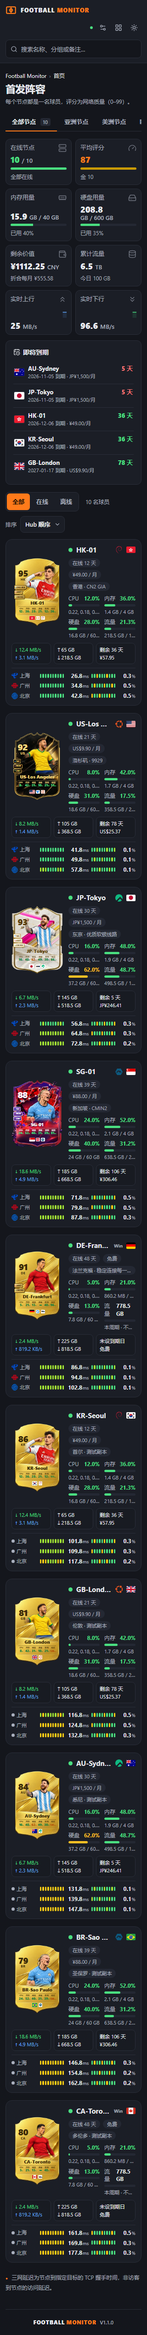
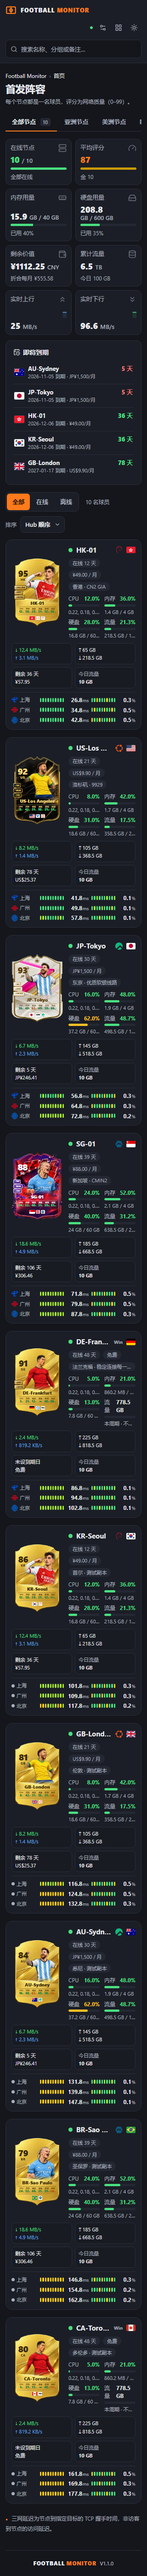
Animate the split panel's probe bars and add today's traffic
The probe rows in the split view now sweep three empty rows while the
probes load and light up from the left when they first arrive, sharing
the card strip's animation; before, the panel drew plain colours and said
"暂无探测任务" while loading. Today's traffic, missing from the panel, is a
fourth box at the right end of the row (the split on hover, kept for
offline nodes, hidden with the traffic switch); on phones the boxes go two
to a row.

Changed region(s): [[0.0312, 0.0, 0.9375, 0.9986]]

diff --git a/src/components/NodePanel.vue b/src/components/NodePanel.vue
@@ -1,5 +1,5 @@
 <script setup lang="ts">
-import { computed } from 'vue'
+import { computed, ref, watch } from 'vue'
 import { latencyColor, lossColor, probeBars, shownProbes, taskLoss } from '../domain/carriers'
 import { flagUrl } from '../domain/flags'
 import { remainingValue } from '../domain/fleet'
@@ -96,18 +96,44 @@ const expiry = computed(() => {
     value: left ? money(Number(left.amount.toFixed(2)), left.currency) : '—',
   }
 })
-// Each shown probe gets its own latency and loss segments, as on the detail page's carrier rows.
+// As on the card strip, the bars sweep while the probes load, then fill in from the left the first time they
+// arrive; probes already loaded when the panel mounts, refreshes and failed requests show as they are.
+const arrived = ref(false)
+watch(
+  () => props.history,
+  (now, before) => {
+    if (now && !before) arrived.value = true
+  },
+)
+const loading = computed(() => !props.history && !props.unavailable)
+const barState = computed(() => (loading.value ? 'loading' : arrived.value ? 'fill' : undefined))
+const EMPTY = Array.from({ length: 10 }, () => latencyColor(null))
+// Each shown probe gets its own latency and loss segments, as on the detail page's carrier rows; three empty
+// rows hold the place while the probes load.
 const probes = computed(() =>
-  shownProbes(props.history, props.nodeConfig, props.node.online, props.unavailable).map((p) => {
-    const b = probeBars(props.history, [p.taskId]),
-      loss = props.unavailable ? null : taskLoss(props.history, p.taskId)
-    return {
-      ...p,
-      loss,
-      latencyColors: b.latency.map(latencyColor),
-      lossColors: b.loss.map(lossColor),
-    }
-  }),
+  loading.value
+    ? [1, 2, 3].map((n) => ({
+        taskId: -n,
+        region: '—',
+        carrier: undefined,
+        color: undefined,
+        logo: undefined,
+        latency: null,
+        loss: null,
+        title: '正在加载探测数据',
+        latencyColors: EMPTY,
+        lossColors: EMPTY,
+      }))
+    : shownProbes(props.history, props.nodeConfig, props.node.online, props.unavailable).map((p) => {
+        const b = probeBars(props.history, [p.taskId]),
+          loss = props.unavailable ? null : taskLoss(props.history, p.taskId)
+        return {
+          ...p,
+          loss,
+          latencyColors: b.latency.map(latencyColor),
+          lossColors: b.loss.map(lossColor),
+        }
+      }),
 )
 </script>
 <template>
@@ -154,8 +180,17 @@ const probes = computed(() =>
         <span>{{ expiry.days }}</span>
         <span>{{ expiry.value }}</span>
       </div>
+      <!-- Hub-booked counters, so offline nodes keep today's figure, as on the card strip. -->
+      <div
+        v-if="showTraffic"
+        class="np-box np-today"
+        :title="`今日下行 ${bytes(node.day_rx)} · 今日上行 ${bytes(node.day_tx)}`"
+      >
+        <span class="np-box-label">今日流量</span>
+        <b>{{ bytes(node.day_rx + node.day_tx) }}</b>
+      </div>
     </div>
-    <div v-if="showCarriers" class="np-probes">
+    <div v-if="showCarriers" class="np-probes" :data-state="barState">
       <span v-if="!probes.length" class="np-empty">暂无探测任务</span>
       <div
         v-for="p in probes"
@@ -171,14 +206,14 @@ const probes = computed(() =>
           }}</span></span
         >
         <span class="np-segs" aria-hidden="true"
-          ><i v-for="(color, i) in p.latencyColors" :key="i" :style="{ background: color }"
+          ><i v-for="(color, i) in p.latencyColors" :key="i" :style="{ background: color, '--i': i }"
         /></span>
         <b class="np-probe-value"
           >{{ p.latency === null ? '—' : Number(p.latency.toFixed(1))
           }}<small v-if="p.latency !== null">ms</small></b
         >
         <span class="np-segs" aria-hidden="true"
-          ><i v-for="(color, i) in p.lossColors" :key="i" :style="{ background: color }"
+          ><i v-for="(color, i) in p.lossColors" :key="i" :style="{ background: color, '--i': i }"
         /></span>
         <b class="np-probe-value"
           >{{ p.loss === null ? '—' : p.loss.toFixed(1) }}<small v-if="p.loss !== null">%</small></b

diff --git a/tests/node-panel.test.ts b/tests/node-panel.test.ts
@@ -1,4 +1,5 @@
 import { describe, expect, it } from 'vitest'
+import { nextTick } from 'vue'
 import { mount } from '@vue/test-utils'
 import NodePanel from '../src/components/NodePanel.vue'
 import { carriers } from '../src/domain/carriers'
@@ -117,7 +118,18 @@ describe('node panel', () => {
       '↓1.5MB/s↑1.3MB/s',
       '⇡2TB⇣3TB',
       '剩余15天¥14.78',
+      '今日流量0B',
     ])
+  })
+  it("shows today's traffic in the last box with the split on hover, offline nodes included", () => {
+    const today = { ...online, day_rx: 8 * GB, day_tx: 2 * GB }
+    for (const node of [today, { ...today, online: false, metrics: null }]) {
+      const box = panel({ node }).findAll('.np-box').at(-1)!
+      expect(box.classes()).toContain('np-today')
+      expect(box.find('.np-box-label').text()).toBe('今日流量')
+      expect(box.find('b').text()).toBe('10 GB')
+      expect(box.attributes('title')).toBe('今日下行 8 GB · 今日上行 2 GB')
+    }
   })
   it('leaves traffic and billing boxes out when they are hidden', () => {
     const wrapper = panel({ showTraffic: false, showBilling: false })
@@ -137,7 +149,11 @@ describe('node panel', () => {
     ])
     for (const row of rows) expect(row.findAll('.np-segs i')).toHaveLength(20)
     expect(panel({ showCarriers: false }).find('.np-probes').exists()).toBe(false)
-    expect(panel({ history: undefined }).find('.np-empty').text()).toBe('暂无探测任务')
+    expect(
+      panel({ history: { ...history, probes: {} } })
+        .find('.np-empty')
+        .text(),
+    ).toBe('暂无探测任务')
   })
   it('shows dashes for live readings of an offline node and how long it has been away', () => {
     const wrapper = panel({ node: offline })
@@ -150,5 +166,27 @@ describe('node panel', () => {
   it('shows dashes for loss when the probes could not be loaded', () => {
     const rows = panel({ unavailable: true }).findAll('.np-probe')
     expect(rows.map((r) => r.findAll('.np-probe-value')[1]!.text())).toEqual(['—', '—', '—'])
+  })
+  it('sweeps three empty rows while the probes load, then fills them in once, on first arrival', async () => {
+    const wrapper = panel({ history: undefined })
+    const probes = () => wrapper.find('.np-probes')
+    expect(probes().attributes('data-state')).toBe('loading')
+    expect(wrapper.find('.np-empty').exists()).toBe(false)
+    const rows = wrapper.findAll('.np-probe')
+    expect(rows).toHaveLength(3)
+    expect(rows[0]!.attributes('title')).toBe('正在加载探测数据')
+    expect(rows[0]!.findAll('.np-segs i')[4]!.attributes('style')).toContain('--i: 4')
+    await wrapper.setProps({ history })
+    expect(probes().attributes('data-state')).toBe('fill')
+    expect(wrapper.findAll('.np-probe-name').map((n) => n.text())).toEqual(['电信', '联通', '移动'])
+    await wrapper.setProps({ history: { ...history } })
+    await nextTick()
+    expect(probes().attributes('data-state')).toBe('fill')
+  })
+  it('neither sweeps nor fills when the probes were already loaded or failed to load', () => {
+    expect(panel().find('.np-probes').attributes('data-state')).toBeUndefined()
+    const failed = panel({ history: undefined, unavailable: true })
+    expect(failed.find('.np-probes').attributes('data-state')).toBeUndefined()
+    expect(failed.find('.np-empty').text()).toBe('暂无探测任务')
   })
 })

diff --git a/src/styles/cards.css b/src/styles/cards.css
@@ -590,13 +590,16 @@
   initial-value: 1;
 }
 /* While the probes load, the empty segments light up from the left, one per tenth, and start over. */
-.strip-bar[data-state='loading'] {
+.strip-bar[data-state='loading'],
+.np-probes[data-state='loading'] {
   animation: strip-load 1.2s linear infinite;
 }
-.strip-bar[data-state='loading'] .strip-seg {
+.strip-bar[data-state='loading'] .strip-seg,
+.np-probes[data-state='loading'] .np-segs i {
   position: relative;
 }
-.strip-bar[data-state='loading'] .strip-seg::after {
+.strip-bar[data-state='loading'] .strip-seg::after,
+.np-probes[data-state='loading'] .np-segs i::after {
   content: '';
   position: absolute;
   inset: 0;
@@ -613,11 +616,13 @@
     --strip-load: 1;
   }
 }
-/* The first time the probes arrive, the coloured segments light up from the left. */
-.strip-bar[data-state='fill'] {
+/* The first time the probes arrive, the coloured segments light up from the left; the split panel shares both. */
+.strip-bar[data-state='fill'],
+.np-probes[data-state='fill'] {
   animation: strip-fill 0.7s ease-out both;
 }
-.strip-bar[data-state='fill'] .strip-seg {
+.strip-bar[data-state='fill'] .strip-seg,
+.np-probes[data-state='fill'] .np-segs i {
   opacity: clamp(0, calc((var(--strip-fill, 1) * 13 - var(--i)) / 3), 1);
 }
 @keyframes strip-fill {
@@ -818,6 +823,13 @@
 .np-box b {
   margin-right: 3px;
 }
+.np-box-label {
+  color: var(--muted);
+}
+.np-today b {
+  margin: 0;
+  font-weight: 700;
+}
 .np-down {
   color: var(--strip-down);
 }
@@ -910,6 +922,10 @@
   .np-boxes,
   .np-probes {
     grid-column: 1 / -1;
+  }
+  .np-boxes {
+    grid-template-columns: repeat(2, minmax(0, 1fr));
+    grid-auto-flow: row;
   }
   .np-probe {
     grid-template-columns: 56px minmax(0, 1fr) 48px minmax(0, 1fr) 38px;

diff --git a/docs/manual.md b/docs/manual.md
@@ -9,7 +9,7 @@
 - FC 版式球星卡：左上综合分与国家/地区，左侧卡框边缘为“线路技能”徽章（显示三网线路设置里填写的线路名，如 CN2 GIA、9929、CMIN2，小圆点区分电信/联通/移动），中部立绘，下方节点名与 CPU / 内存 / 硬盘 / 流量 / 在线 / 延迟六项真实数值（占用百分比、运行天数、24 小时平均延迟 ms，按数值绿/黄/红着色），左上综合分为网络质量分（见下文），最底部一排徽章依次为国旗（按节点国家代码）、VPS 服务商 LOGO（节点设置中选择，内置阿里云、腾讯云、Vultr、DigitalOcean、搬瓦工、CloudCone、BageVM、VMISS、Akile 等，或自定义名称与 HTTPS LOGO，可用上传服务上传）和操作系统 LOGO（按节点上报的系统名称自动识别）；卡下实时条显示上下行速率、探针后台前三个测速点（按后台顺序，地区名取自测速任务名；任务名含“电信 / 联通 / 移动”时按运营商着色并简写）的延迟，以及最近一段时间的“延迟”“丢包”色块条。
 - 十七套卡面：档位卡 金卡 / 银卡 / 铜卡，特殊卡 周黑 / 开拓者 / 传奇 / 星河 / 碎焰 / 年度最佳 / 霓虹 / 幻彩 / 青金 / 霓虹城 / 翡翠 / 星环 / 棱镜 / 故障；另有「自动（按评分）」，按综合分在铜 / 银 / 金之间切换（档位线 65 / 75，2 分滞后防闪烁）。主题站演示页（monitor-themes.pages.dev）没有设置可读，未配置卡面的节点按编号轮换全部卡面以便预览；真实站点不受影响。
 - 首页灰蓝底、橙色强调的平面风格：桌面 1440px 标准布局每行 7 张、紧凑 8 张、大卡 6 张，手机每行 2 张；状态筛选、综合分/名称排序和顶栏搜索（`/` 聚焦）。
-- 首页两种形式：上下（默认，卡面 + 卡下实时条）与左右（纯卡面 + 右侧数据面板）。左右形式的面板依次为状态、名称、系统与国旗，在线天数 / 价格 / 备注标签，CPU（附负载）/ 内存 / 硬盘 / 本周期流量四格进度条（绿 <60%、黄 <85%、红；不限量只显示用量），实时速率、累计上下行、剩余天数与剩余价值三块，以及前三个测速点各自一行的当前延迟、丢包与两条色块条；桌面 1440px 每行 3 个，768px 以下每行 1 个，手机上测速与小块铺满整行。全局设置“首页形式”决定默认值；访客可点顶栏深浅色按钮旁的图标临时切换（只在首页显示），只记在本浏览器；站长改了默认形式后，访客原先的选择不再生效，站长在设置页改此项时本浏览器的选择也会清除。关闭“显示流量 / 显示费用 / 显示三网”时分别隐藏累计流量块、价格标签与到期块、测速行。
+- 首页两种形式：上下（默认，卡面 + 卡下实时条）与左右（纯卡面 + 右侧数据面板）。左右形式的面板依次为状态、名称、系统与国旗，在线天数 / 价格 / 备注标签，CPU（附负载）/ 内存 / 硬盘 / 本周期流量四格进度条（绿 <60%、黄 <85%、红；不限量只显示用量），实时速率、累计上下行、剩余天数与剩余价值、今日流量（悬停看上下行）四块（手机上两两一行），以及前三个测速点各自一行的当前延迟、丢包与两条色块条（加载时扫动、首次到达时从左点亮，与卡下条一致）；桌面 1440px 每行 3 个，768px 以下每行 1 个，手机上测速与小块铺满整行。全局设置“首页形式”决定默认值；访客可点顶栏深浅色按钮旁的图标临时切换（只在首页显示），只记在本浏览器；站长改了默认形式后，访客原先的选择不再生效，站长在设置页改此项时本浏览器的选择也会清除。关闭“显示流量 / 显示费用 / 显示三网”时分别隐藏流量块、价格标签与到期块、测速行。
 - 节点详情为球员资料页：大卡、粘性分区导航（费用与流量 / 三网线路 / 评分明细 / 历史表现 / 系统信息）与逐项评分说明。
 - CPU / 内存 / 磁盘、上下行速率、周期配额、累计流量、系统 Uptime、费用与到期状态。
 - 全局默认卡面、单节点覆盖、继承与恢复默认；按稳定节点 ID 保存，重命名不丢失。
